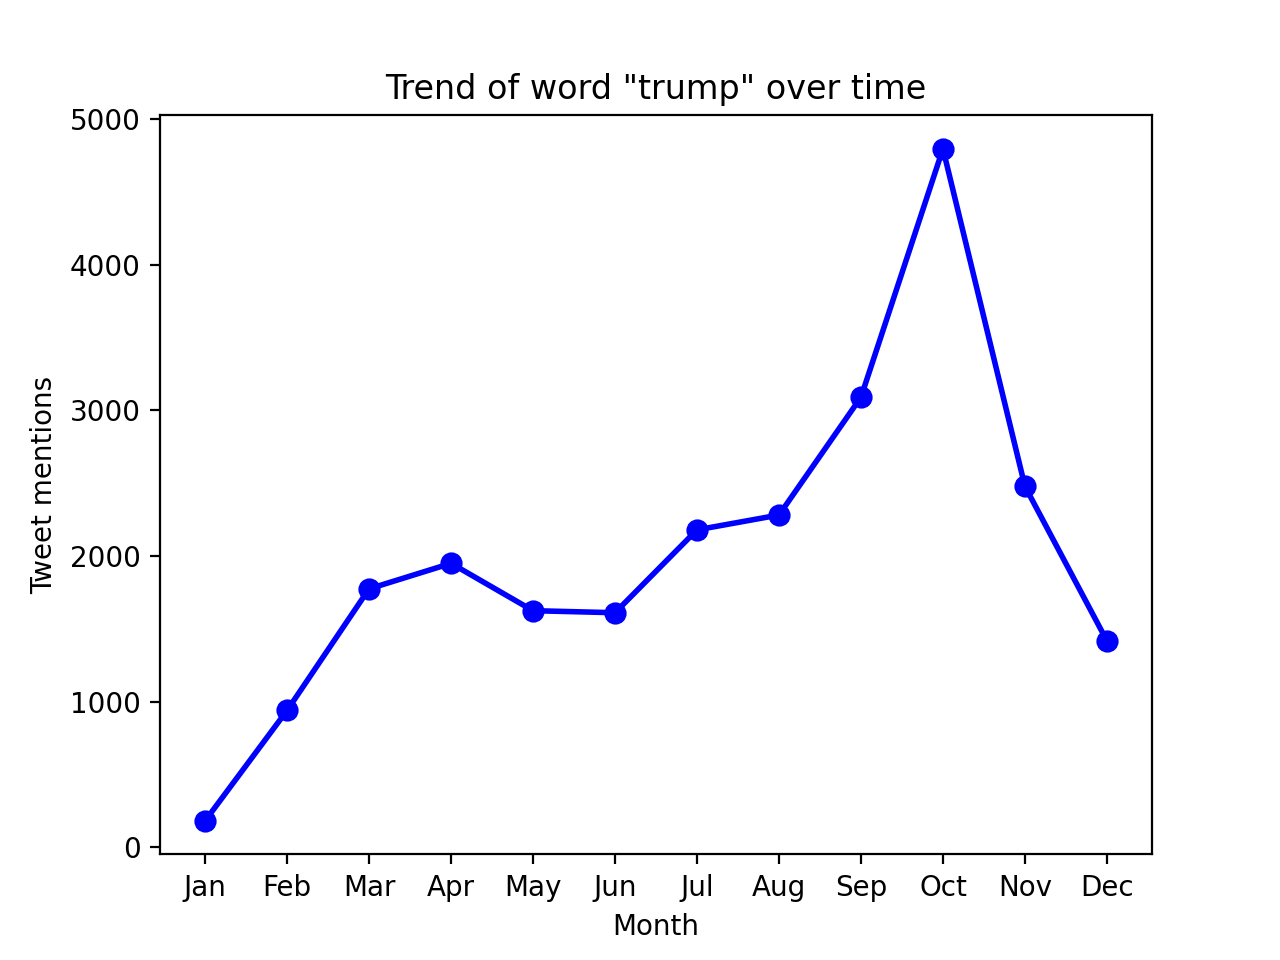
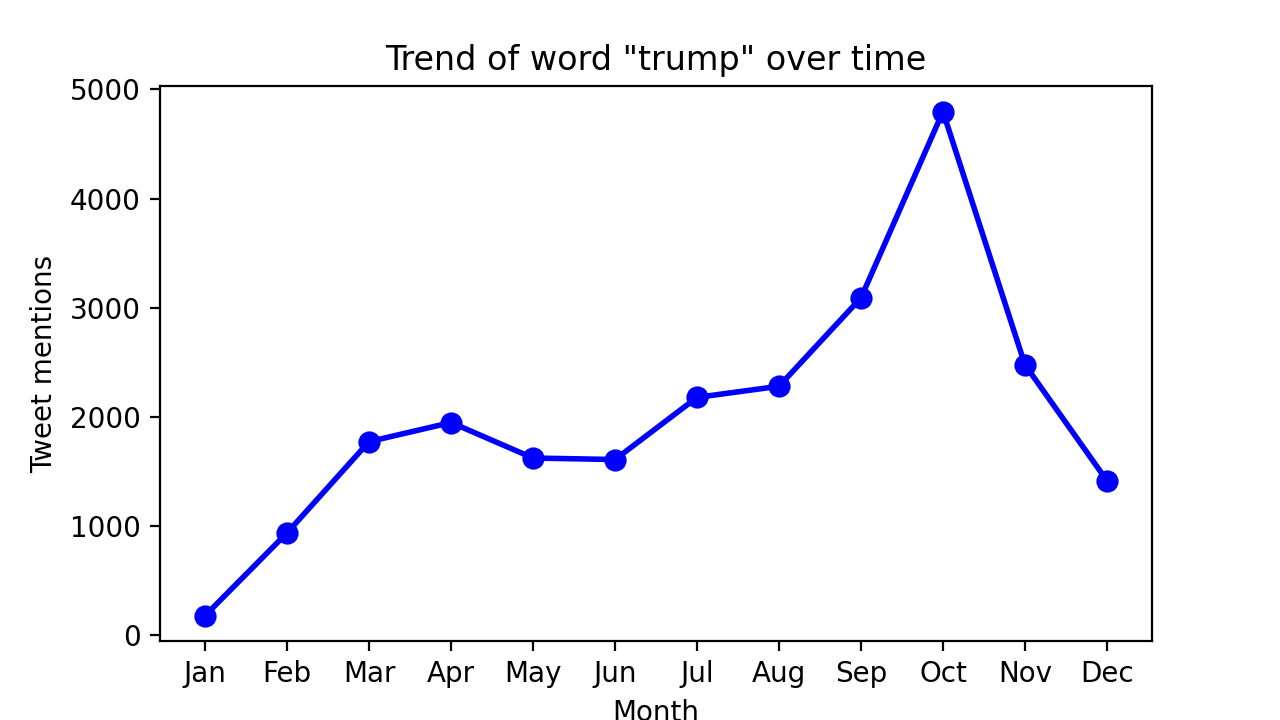
Multiple plots according to list of keywords

diff --git a/EDA-Script.py b/EDA-Script.py
@@ -16,7 +16,7 @@ month_list = ["01-Jan", "02-Feb", "03-Mar", "04-Apr", "05-May", "06-Jun", "07-Ju
 month_iterator = 1
 
 
-def run_all(month_number, x, y):
+def run_all(month_number, x, graph_dff):
     table_df = pd.read_csv('data/' + month_list[month_number - 1] + '-Tweets.csv')
     # print(table_df.head())
 
@@ -167,23 +167,35 @@ def run_all(month_number, x, y):
     # ------------------------------------------------------------------------------
     # Generate data for line graph for specific keyword
 
-    def plot_graph(x, y):
-        plt.plot(x, y, color='blue', linestyle='solid', linewidth=2,
-                 marker='o', markerfacecolor='blue', markersize=7)
+    # Function for plotting the dataframe wrt months
+    def plot_graph(x, graph_dfff):
+        my_dpi = 200
+        plt.rcParams['figure.figsize'] = 10, 5
+        for keyword_graph in graph_dfff.columns:
+            plt.figure(figsize=(1280 / my_dpi, 720 / my_dpi), dpi=my_dpi)
+            plt.plot(x, graph_dfff[keyword_graph], color='blue', linestyle='solid', linewidth=2,
+                     marker='o', markerfacecolor='blue', markersize=7)
 
-        plt.xlabel('Month')
-        plt.ylabel('Tweet mentions')
-        plt.title('Trend of word "' + keyword_graph + '" over time')
-        plt.savefig("img/plot_" + keyword_graph + ".png", format="png", dpi=200)
-        plt.show()
+            plt.xlabel('Month')
+            plt.ylabel('Tweet mentions')
+            plt.title('Trend of word "' + keyword_graph + '" over time')
+            plt.savefig("img/plot_" + keyword_graph + ".png", format="png", dpi=my_dpi)
+            plt.show()
 
-    keyword_graph = 'trump'
-    var = words_counter_df[words_counter_df['word'].str.contains(keyword_graph)]['freq']
-    # print(var.sum())
-    y.append(var.sum())
+    graph_row = list()
+    # keyword_graph = 'biden'
 
+    # Get the count of all the keywords for the current month
+    for keyword_graph in graph_dff.columns:
+        var = words_counter_df[words_counter_df['word'].str.contains(keyword_graph)]['freq']
+        graph_row.append(var.sum())
+
+    # Put the counts for current month in a pandas series and add it to the DF
+    row_series = pd.Series(graph_row, index=graph_dff.columns)
+    graph_dff = graph_dff.append(row_series, ignore_index=True)
     if month_number == 12:
-        plot_graph(x, y)
+        print(graph_dff)
+        plot_graph(x, graph_dff)
     """
     # Write plot data to file
     f = open(keyword_graph + "-stats.txt", "a+")
@@ -206,10 +218,12 @@ def run_all(month_number, x, y):
     # wc.to_file("img/wordcloud_" + month_list[month_number - 1] + ".png")
     plt.savefig("img/wordcloud_" + month_list[month_number - 1] + ".png", format="png", dpi=100)
     """
-    print(month_list[month_number-1]+" done")
+    print(month_list[month_number - 1][3:] + " done")
+    return graph_dff
 
 
 x = ["Jan", "Feb", "Mar", "Apr", "May", "Jun", "Jul", "Aug", "Sep", "Oct", "Nov", "Dec"]
-y = list()
+graph_df = pd.DataFrame(columns=['trump', 'china', 'vaccine', 'mask', 'lockdown'])
+
 for i in range(1, 12 + 1):
-    run_all(i, x, y)
+    graph_df = run_all(i, x, graph_df)
